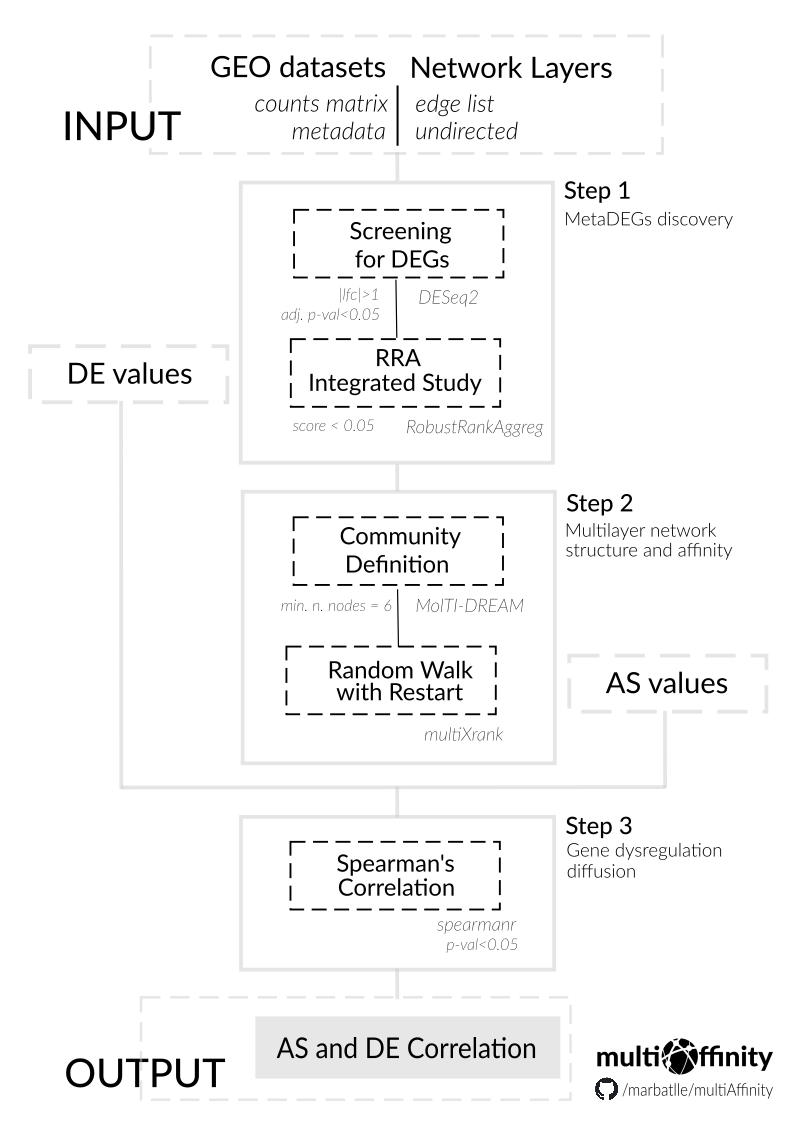
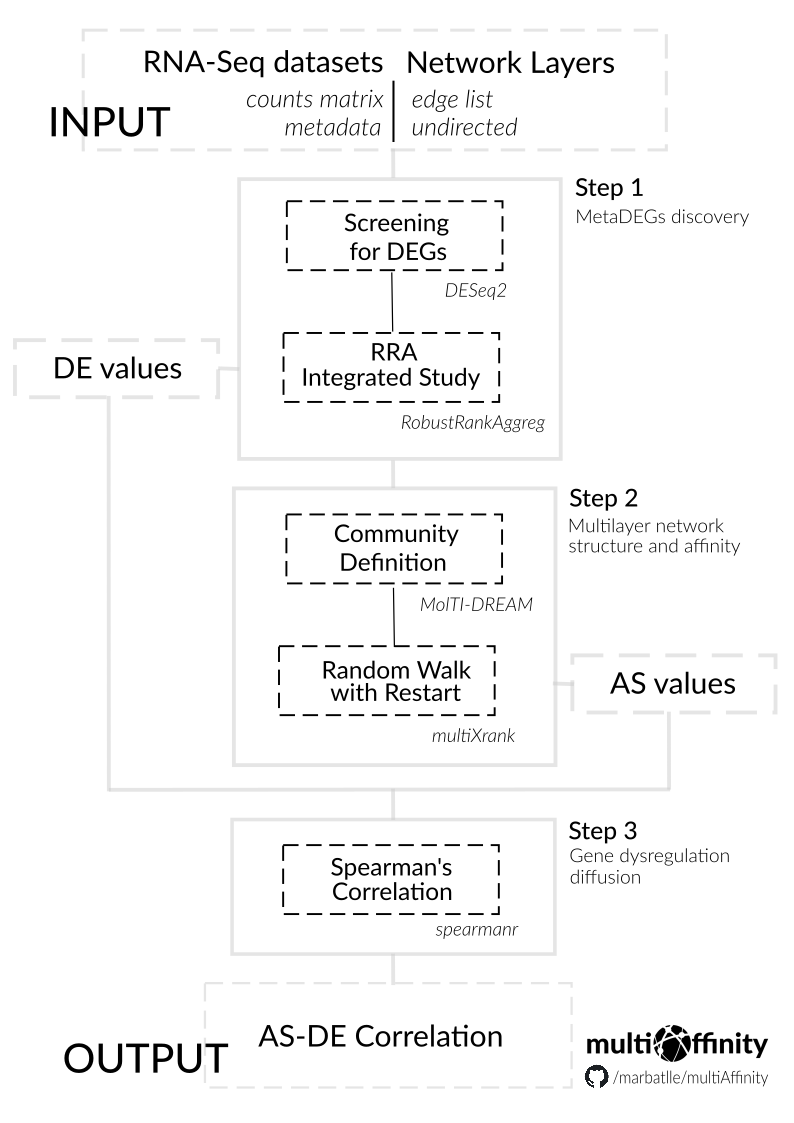
update docs

diff --git a/site/usage/index.html b/site/usage/index.html
@@ -128,7 +128,7 @@
               
                 <h1 id="user-guide">User Guide</h1>
 <h2 id="1-input">1. Input</h2>
-<p>Before running the multiAffinity, the input files need to be curated to fit the tool's template, consist of: <strong>counts matrix</strong> and <strong>metadata</strong>. These files can be obtained from <a href="http://www.ilincs.org/apps/grein/?gse=">GREIN</a> or from other sources.</p>
+<p>Before running the multiAffinity, the input files need to be curated to fit the tool's template. The RNA-Seq Case Control files consist of: <strong>counts matrix</strong> and <strong>metadata</strong>. These can be obtained from <a href="http://www.ilincs.org/apps/grein/?gse=">GREIN</a> or from other sources.</p>
 <h3 id="obtain-inputs-from-grein">Obtain inputs from GREIN</h3>
 <p>This workflow is designed to work seamlessly with the output created by GREIN, as shown in this tutorial <a href="https://github.com/marbatlle/multiAffinity/blob/main/docs/img/tutorial_grein.png">GREIN_tutorial</a>.</p>
 <h3 id="obtain-inputs-from-other-sources">Obtain inputs from other sources</h3>
@@ -310,7 +310,7 @@ Sample file:
 -d DESeq2 - LFC cutoff      defines whether self loops are removed or not, takes values 0 or 1 *(default is 1)*
 </code></pre>
 <h4 id="analysis-approach">Analysis Approach</h4>
-<p>The study follows a local approach to compute the study the spread of dysregulation within the nodes that fall in the same commnities, nonetheless, the user can choose to pursue a global approach, and study the propagation towards all the genes in the multilayer network of study.</p>
+<p>The study follows a local approach to compute the study the spread of dysregulation within the nodes that fall in the same commnities, nonetheless, the user can choose to pursue a global approach, and study the spreading towards all the genes in the multilayer network of study.</p>
 <pre><code>-a Approach                 computes correlation on each community or respect all genes, local or global approach *(default is local)*
 </code></pre>
 <h4 id="molti-dream-arguments">MolTI-DREAM Arguments</h4>

diff --git a/site/index.html b/site/index.html
@@ -167,5 +167,5 @@
 
 <!--
 MkDocs version : 1.2.3
-Build Date UTC : 2022-03-25 11:20:28.230504+00:00
+Build Date UTC : 2022-04-04 17:39:34.510753+00:00
 -->

diff --git a/docs/usage.md b/docs/usage.md
@@ -1,6 +1,6 @@
 # User Guide
 ## 1. Input
-Before running the multiAffinity, the input files need to be curated to fit the tool's template, consist of: **counts matrix** and **metadata**. These files can be obtained from [GREIN](http://www.ilincs.org/apps/grein/?gse=) or from other sources.
+Before running the multiAffinity, the input files need to be curated to fit the tool's template. The RNA-Seq Case Control files consist of: **counts matrix** and **metadata**. These can be obtained from [GREIN](http://www.ilincs.org/apps/grein/?gse=) or from other sources.
 
 ### Obtain inputs from GREIN
 This workflow is designed to work seamlessly with the output created by GREIN, as shown in this tutorial [GREIN_tutorial](https://github.com/marbatlle/multiAffinity/blob/main/docs/img/tutorial_grein.png).
@@ -109,7 +109,7 @@ The user can modify the adjusted p-value and LFC threshold set throughout the wo
     -d DESeq2 - LFC cutoff      defines whether self loops are removed or not, takes values 0 or 1 *(default is 1)*
 
 #### Analysis Approach 
-The study follows a local approach to compute the study the spread of dysregulation within the nodes that fall in the same commnities, nonetheless, the user can choose to pursue a global approach, and study the propagation towards all the genes in the multilayer network of study.
+The study follows a local approach to compute the study the spread of dysregulation within the nodes that fall in the same commnities, nonetheless, the user can choose to pursue a global approach, and study the spreading towards all the genes in the multilayer network of study.
 
     -a Approach                 computes correlation on each community or respect all genes, local or global approach *(default is local)*
 
